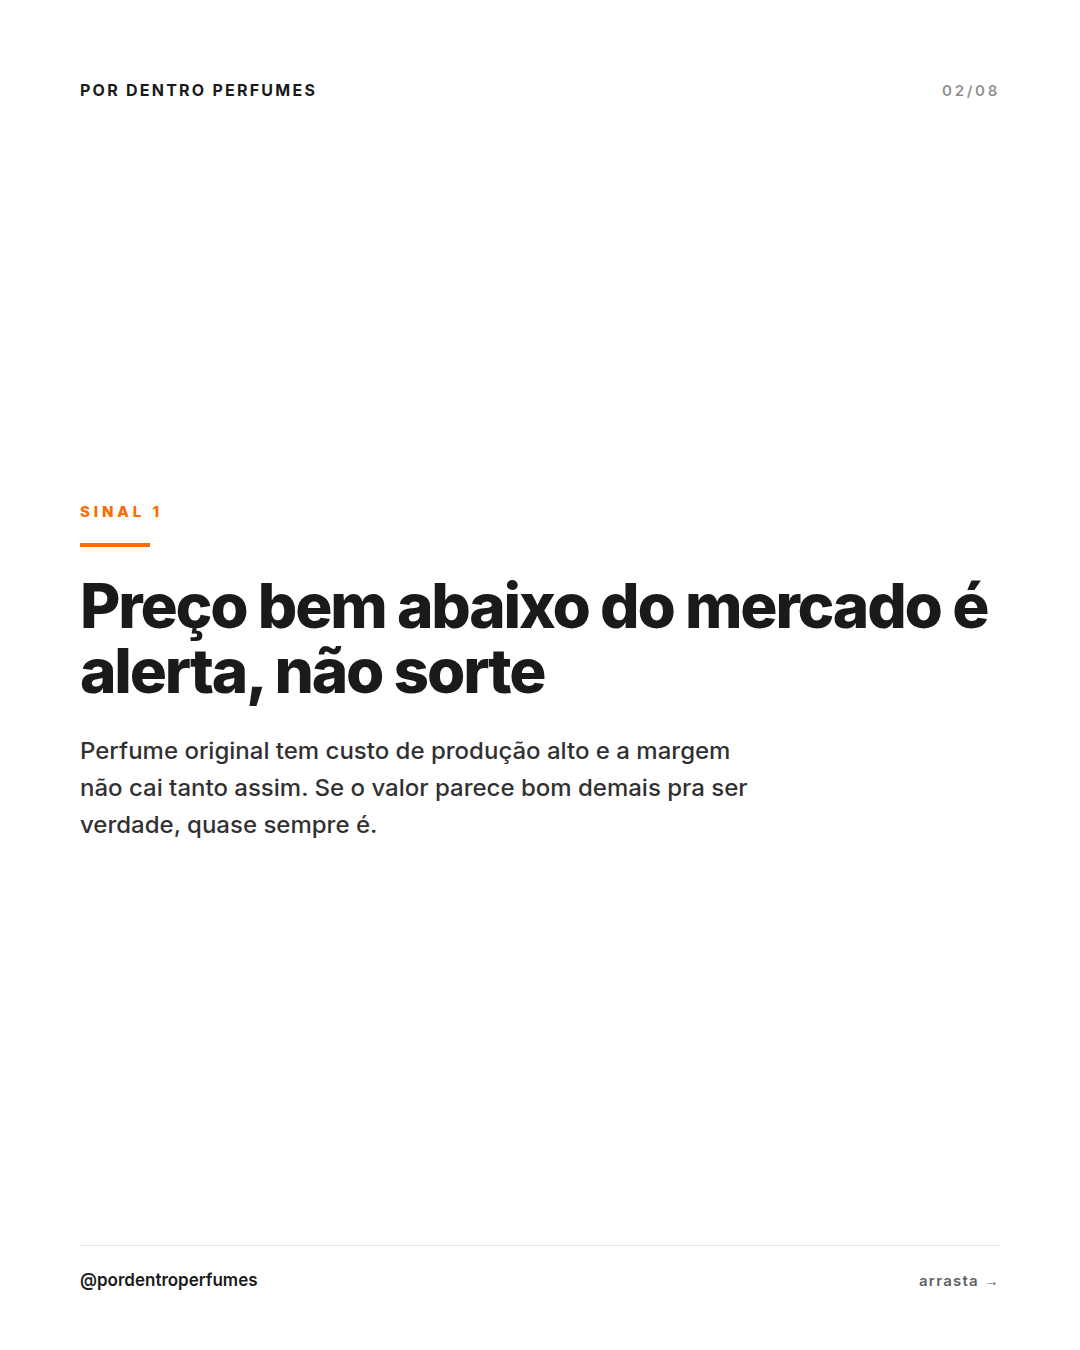
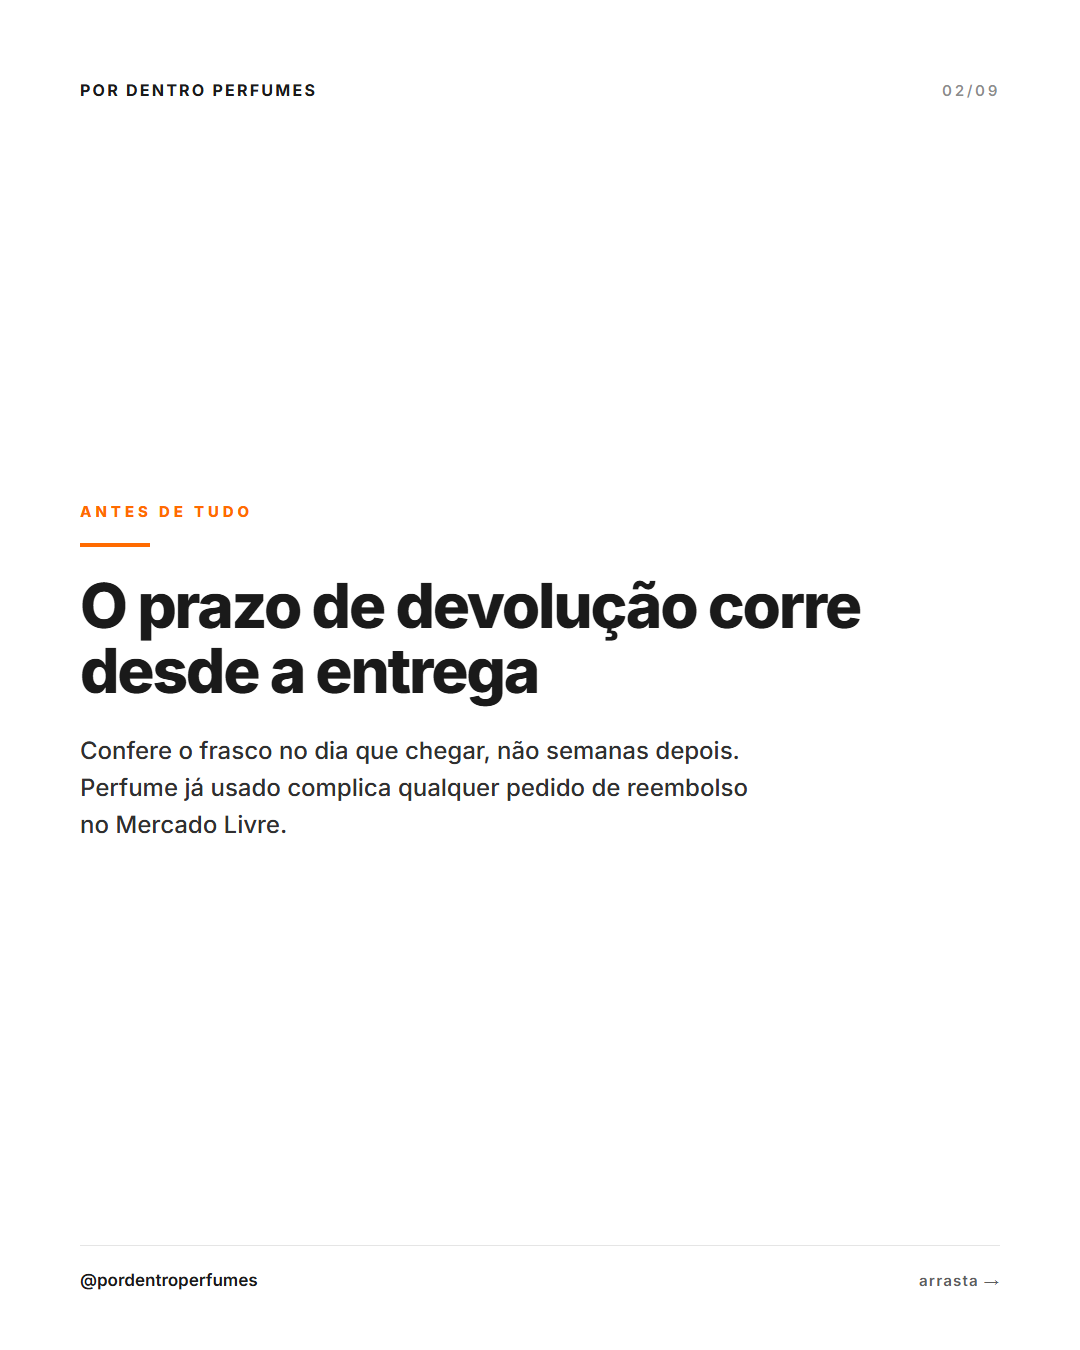
reescreve original-ou-falso: pericia na entrega
O angulo antigo (sinais no anuncio antes de comprar) repetia o carrossel
de erros no Mercado Livre, no ar desde 15/09: foto do anuncio e vendedor
sem historico eram dois slides inteiros de la, e o CTA era a mesma frase
trocando "confiavel" por "original".

Angulo novo: pericia com o frasco na mao depois que a encomenda chega,
dentro do prazo de devolucao. O carrossel no ar para na decisao de compra;
esse comeca onde ele termina. Nenhum conselho se repete.

Aproveita lacre e codigo de lote, que a revisao de 13/09 tirou do carrossel
de erros justamente pra liberar pra outro.

9 slides, capa preta (alterna com a capa branca do validade, que sai 17/09).
texto.md ja traz a tabela Trava de frescor exigida pela skill endurecida.
Legenda e hashtags refeitas: as duas usavam #perfumeoriginal.

diff --git a/marketing/conteudo/carrossel-perfume-original-ou-falso-2026-09-13/carrossel.html b/marketing/conteudo/carrossel-perfume-original-ou-falso-2026-09-13/carrossel.html
@@ -2,7 +2,7 @@
 <html lang="pt-BR">
 <head>
 <meta charset="UTF-8">
-<title>Carrossel — Perfume original ou falso</title>
+<title>Carrossel — Perfume original ou falso (perícia na entrega)</title>
 <link rel="stylesheet" href="../../../identidade/fonts/inter.css">
 <style>
   * { margin: 0; padding: 0; box-sizing: border-box; font-family: 'Inter', sans-serif; }
@@ -137,16 +137,16 @@
 </head>
 <body>
 
-<!-- SLIDE 1 — CAPA — preto -->
+<!-- SLIDE 1 — Chegou a encomenda — preto -->
 <div class="slide bg-black">
   <div class="header">
     <div class="wordmark">Por Dentro Perfumes</div>
-    <div class="counter">01/08</div>
+    <div class="counter">01/09</div>
   </div>
   <div class="content capa-content">
-    <div class="kicker">Compra segura</div>
-    <h1>Perfume original ou falso? Aprenda antes de comprar</h1>
-    <div class="subtitle">Sinais simples que separam o perfume de verdade da imitação barata.</div>
+    <div class="kicker">Chegou a encomenda</div>
+    <h1>Seu perfume chegou. Confere antes de usar</h1>
+    <div class="subtitle">Cinco minutos com o frasco na mão dizem se é original. E ainda dá tempo de devolver.</div>
   </div>
   <div class="footer">
     <div class="footer-handle">@pordentroperfumes</div>
@@ -154,17 +154,17 @@
   </div>
 </div>
 
-<!-- SLIDE 2 — Sinal 1 — branco -->
+<!-- SLIDE 2 — Antes de tudo — branco -->
 <div class="slide bg-white">
   <div class="header">
     <div class="wordmark">Por Dentro Perfumes</div>
-    <div class="counter">02/08</div>
+    <div class="counter">02/09</div>
   </div>
   <div class="content">
-    <div class="kicker">Sinal 1</div>
+    <div class="kicker">Antes de tudo</div>
     <div class="rule"></div>
-    <h2>Preço bem abaixo do mercado é alerta, não sorte</h2>
-    <div class="body-text">Perfume original tem custo de produção alto e a margem não cai tanto assim. Se o valor parece bom demais pra ser verdade, quase sempre é.</div>
+    <h2>O prazo de devolução corre desde a entrega</h2>
+    <div class="body-text">Confere o frasco no dia que chegar, não semanas depois. Perfume já usado complica qualquer pedido de reembolso no Mercado Livre.</div>
   </div>
   <div class="footer">
     <div class="footer-handle">@pordentroperfumes</div>
@@ -172,17 +172,17 @@
   </div>
 </div>
 
-<!-- SLIDE 3 — Sinal 2 — preto -->
+<!-- SLIDE 3 — Passo 1 — preto -->
 <div class="slide bg-black">
   <div class="header">
     <div class="wordmark">Por Dentro Perfumes</div>
-    <div class="counter">03/08</div>
+    <div class="counter">03/09</div>
   </div>
   <div class="content">
-    <div class="kicker">Sinal 2</div>
+    <div class="kicker">Passo 1</div>
     <div class="rule"></div>
-    <h2>Foto genérica esconde o que você vai receber</h2>
-    <div class="body-text">Anúncio só com imagem de catálogo não mostra o frasco real. Prefere quem fotografa o próprio produto, com caixa e lacre aparecendo de verdade.</div>
+    <h2>Celofane esticado, sem bolha nem dobra</h2>
+    <div class="body-text">Lacre de fábrica é justo e bem colado no papelão. Plástico frouxo, remendado ou com marca de calor é caixa que já foi aberta.</div>
   </div>
   <div class="footer">
     <div class="footer-handle">@pordentroperfumes</div>
@@ -190,17 +190,17 @@
   </div>
 </div>
 
-<!-- SLIDE 4 — Sinal 3 — branco -->
+<!-- SLIDE 4 — Passo 2 — branco -->
 <div class="slide bg-white">
   <div class="header">
     <div class="wordmark">Por Dentro Perfumes</div>
-    <div class="counter">04/08</div>
+    <div class="counter">04/09</div>
   </div>
   <div class="content">
-    <div class="kicker">Sinal 3</div>
+    <div class="kicker">Passo 2</div>
     <div class="rule"></div>
-    <h2>Vendedor sem histórico pesa contra ele</h2>
-    <div class="body-text">Reputação, tempo de loja e volume de vendas contam mais em perfume do que em quase qualquer outra categoria. Confere isso antes de fechar a compra.</div>
+    <h2>Código de barras impresso, nunca colado</h2>
+    <div class="body-text">Na caixa original o código sai junto com a arte. Etiqueta colada por cima costuma esconder outro produto. O lote precisa estar gravado na caixa e no frasco, e bater entre os dois.</div>
   </div>
   <div class="footer">
     <div class="footer-handle">@pordentroperfumes</div>
@@ -208,17 +208,17 @@
   </div>
 </div>
 
-<!-- SLIDE 5 — Sinal 4 — preto -->
+<!-- SLIDE 5 — Passo 3 — preto -->
 <div class="slide bg-black">
   <div class="header">
     <div class="wordmark">Por Dentro Perfumes</div>
-    <div class="counter">05/08</div>
+    <div class="counter">05/09</div>
   </div>
   <div class="content">
-    <div class="kicker">Sinal 4</div>
+    <div class="kicker">Passo 3</div>
     <div class="rule"></div>
-    <h2>Caixa e lacre também denunciam</h2>
-    <div class="body-text">Celofane bem esticado, sem dobra nem bolha. Código de barras impresso na caixa, nunca colado. Número de lote gravado, não só escrito por cima.</div>
+    <h2>Vidro sem emenda e mais pesado do que parece</h2>
+    <div class="body-text">Frasco original é peça única, sem linha de costura no vidro. Tampa e base levam material de verdade, não plástico oco que denuncia no primeiro toque.</div>
   </div>
   <div class="footer">
     <div class="footer-handle">@pordentroperfumes</div>
@@ -226,17 +226,17 @@
   </div>
 </div>
 
-<!-- SLIDE 6 — Sinal 5 — branco -->
+<!-- SLIDE 6 — Passo 4 — branco -->
 <div class="slide bg-white">
   <div class="header">
     <div class="wordmark">Por Dentro Perfumes</div>
-    <div class="counter">06/08</div>
+    <div class="counter">06/09</div>
   </div>
   <div class="content">
-    <div class="kicker">Sinal 5</div>
+    <div class="kicker">Passo 4</div>
     <div class="rule"></div>
-    <h2>Vidro sem costura, líquido quase transparente</h2>
-    <div class="body-text">Frasco original costuma ser uma peça só, sem linha de emenda visível. Marca boa usa pouco corante: o líquido fica claro, não colorido demais.</div>
+    <h2>Líquido quase transparente, sem nada no fundo</h2>
+    <div class="body-text">Marca boa usa pouco corante. Cor forte demais, líquido turvo ou partícula parada no fundo do vidro não é característica de perfume caro.</div>
   </div>
   <div class="footer">
     <div class="footer-handle">@pordentroperfumes</div>
@@ -244,17 +244,17 @@
   </div>
 </div>
 
-<!-- SLIDE 7 — Sinal 6 — preto -->
+<!-- SLIDE 7 — Passo 5 — preto -->
 <div class="slide bg-black">
   <div class="header">
     <div class="wordmark">Por Dentro Perfumes</div>
-    <div class="counter">07/08</div>
+    <div class="counter">07/09</div>
   </div>
   <div class="content">
-    <div class="kicker">Sinal 6</div>
+    <div class="kicker">Passo 5</div>
     <div class="rule"></div>
-    <h2>O cheiro muda com o tempo, o falso não</h2>
-    <div class="body-text">Perfume de verdade evolui na pele ao longo das horas. Se o cheiro fica sempre igual do início ao fim e some rápido, desconfia.</div>
+    <h2>O original troca de cheiro em uma hora</h2>
+    <div class="body-text">Perfume de verdade abre de um jeito e assenta em outro. Se o cheiro é igual do primeiro spray até sumir, e some rápido, é imitação. Testa na pele, nunca no papel.</div>
   </div>
   <div class="footer">
     <div class="footer-handle">@pordentroperfumes</div>
@@ -262,30 +262,41 @@
   </div>
 </div>
 
-<!-- SLIDE 8 — CTA FINAL — laranja -->
+<!-- SLIDE 8 — Deu ruim — branco -->
+<div class="slide bg-white">
+  <div class="header">
+    <div class="wordmark">Por Dentro Perfumes</div>
+    <div class="counter">08/09</div>
+  </div>
+  <div class="content">
+    <div class="kicker">Deu ruim</div>
+    <div class="rule"></div>
+    <h2>Abre a reclamação dentro do Mercado Livre</h2>
+    <div class="body-text">Acerto por fora com o vendedor te deixa sem prova nenhuma. Pelo canal oficial, com foto da caixa e do frasco, o dinheiro volta.</div>
+  </div>
+  <div class="footer">
+    <div class="footer-handle">@pordentroperfumes</div>
+    <div class="footer-drag">arrasta →</div>
+  </div>
+</div>
+
+<!-- SLIDE 9 — CTA FINAL — laranja -->
 <div class="slide bg-orange">
   <div class="header">
     <div class="wordmark">Por Dentro Perfumes</div>
-    <div class="counter">08/08</div>
+    <div class="counter">09/09</div>
   </div>
   <div class="content cta-content">
-    <h1>Agora você sabe reconhecer perfume original antes de comprar</h1>
+    <h1>Perfume falso se descobre em cinco minutos, se você souber olhar</h1>
     <div class="subtitle">A Por Dentro Perfumes busca as melhores ofertas de perfume no Mercado Livre todo dia e manda pro grupo só o que vale.</div>
     <div class="cta-btn">Entra no grupo</div>
     <div class="cta-hint">Link na bio ↑</div>
   </div>
-  <div class="footer" style="justify-content: center; border-top: none;">
+  <div class="footer">
     <div class="footer-handle">@pordentroperfumes</div>
+    <div class="footer-drag"></div>
   </div>
 </div>
 
-<script>
-  const only = new URLSearchParams(location.search).get('slide');
-  if (only) {
-    document.querySelectorAll('.slide').forEach((el, i) => {
-      if (String(i + 1) !== only) el.style.display = 'none';
-    });
-  }
-</script>
 </body>
 </html>

diff --git a/marketing/conteudo/carrossel-perfume-original-ou-falso-2026-09-13/texto.md b/marketing/conteudo/carrossel-perfume-original-ou-falso-2026-09-13/texto.md
@@ -1,64 +1,70 @@
-# Carrossel — Perfume original ou falso, como saber antes de comprar
+# Carrossel — Perfume original ou falso: perícia na entrega
 
-> Gerado pela rotina automática `/carrossel-diario` em 2026-09-13.
-> Tipo: carrossel texto puro (8 slides). Capa em fundo escuro (preto) — o último
-> carrossel agendado no feed, na ordem de publicação (erros ao comprar, 15/09 20h),
-> tem capa clara (branco), então essa alterna pra escura, seguindo a regra de
-> sequência de capas do feed.
-> Ângulo: custo-benefício + segurança na compra + Mercado Livre. Sem slide de
-> "achado do grupo com preço real" — rotina automática não tem acesso a oferta ao vivo.
-> Tema conferido contra `_temas-cobertos.md`: "original x falsificado" está listado
-> explicitamente como tema válido ainda não coberto na "Regra de frescor". É distinto
-> de "erros comuns ao comprar" (2026-09-07, que cobre foto do anúncio, vendedor sem
-> histórico, avaliações e contratipo x original como UM item entre vários) porque aqui
-> o carrossel inteiro é dedicado aos sinais físicos e práticos de autenticidade do
-> produto em si (embalagem, lacre, frasco, cheiro).
+> Reescrito em 2026-09-16. A versão anterior (gerada em 13/09) foi descartada por
+> repetir o carrossel "erros ao comprar perfume no Mercado Livre", no ar desde 15/09:
+> foto do anúncio, vendedor sem histórico e um CTA quase idêntico.
+> Tipo: carrossel texto puro (9 slides). Capa preta, alternando com a capa branca do
+> carrossel de validade, que sai antes (17/09).
+
+## Trava de frescor (Passo 0)
+
+| Candidato | Linha coberta mais próxima | Veredito |
+|---|---|---|
+| Perícia no frasco depois que a encomenda chega | erros-comprar-perfume-mercado-livre (07/09, no ar 15/09) | APROVADO: aquele carrossel para na decisão de compra (anúncio, vendedor, avaliações). Esse começa onde ele termina, com o produto na mão. Nenhum conselho se repete, e usa lacre e código de lote, que a revisão de 13/09 tirou de lá de propósito |
+| Sinais de falsificação no anúncio (versão antiga) | erros-comprar-perfume-mercado-livre (07/09, no ar 15/09) | REPROVADO: foto genérica e vendedor sem histórico são dois slides inteiros do carrossel no ar, e o CTA era a mesma frase trocando "confiável" por "original" |
+| Como conservar perfume pra não estragar | carrossel-perfume-tem-validade (16/09, agendado 17/09) | REPROVADO: calor, luz e banheiro já são dois slides do carrossel de validade |
 
 ## Slide 1 — CAPA (preto)
 
-**Kicker:** Compra segura
-**H1:** Perfume original ou falso? Aprenda antes de comprar
-**Subtítulo:** Sinais simples que separam o perfume de verdade da imitação barata.
+**Kicker:** Chegou a encomenda
+**H1:** Seu perfume chegou. Confere antes de usar
+**Subtítulo:** Cinco minutos com o frasco na mão dizem se é original. E ainda dá tempo de devolver.
 
-## Slide 2 — Sinal 1 (branco)
+## Slide 2 — Antes de tudo (branco)
 
-**Kicker:** Sinal 1
-**H2:** Preço bem abaixo do mercado é alerta, não sorte
-**Corpo:** Perfume original tem custo de produção alto e a margem não cai tanto assim. Se o valor parece bom demais pra ser verdade, quase sempre é.
+**Kicker:** Antes de tudo
+**H2:** O prazo de devolução corre desde a entrega
+**Corpo:** Confere o frasco no dia que chegar, não semanas depois. Perfume já usado complica qualquer pedido de reembolso no Mercado Livre.
 
-## Slide 3 — Sinal 2 (preto)
+## Slide 3 — Passo 1 (preto)
 
-**Kicker:** Sinal 2
-**H2:** Foto genérica esconde o que você vai receber
-**Corpo:** Anúncio só com imagem de catálogo não mostra o frasco real. Prefere quem fotografa o próprio produto, com caixa e lacre aparecendo de verdade.
+**Kicker:** Passo 1
+**H2:** Celofane esticado, sem bolha nem dobra
+**Corpo:** Lacre de fábrica é justo e bem colado no papelão. Plástico frouxo, remendado ou com marca de calor é caixa que já foi aberta.
 
-## Slide 4 — Sinal 3 (branco)
+## Slide 4 — Passo 2 (branco)
 
-**Kicker:** Sinal 3
-**H2:** Vendedor sem histórico pesa contra ele
-**Corpo:** Reputação, tempo de loja e volume de vendas contam mais em perfume do que em quase qualquer outra categoria. Confere isso antes de fechar a compra.
+**Kicker:** Passo 2
+**H2:** Código de barras impresso, nunca colado
+**Corpo:** Na caixa original o código sai junto com a arte. Etiqueta colada por cima costuma esconder outro produto. O lote precisa estar gravado na caixa e no frasco, e bater entre os dois.
 
-## Slide 5 — Sinal 4 (preto)
+## Slide 5 — Passo 3 (preto)
 
-**Kicker:** Sinal 4
-**H2:** Caixa e lacre também denunciam
-**Corpo:** Celofane bem esticado, sem dobra nem bolha. Código de barras impresso na caixa, nunca colado. Número de lote gravado, não só escrito por cima.
+**Kicker:** Passo 3
+**H2:** Vidro sem emenda e mais pesado do que parece
+**Corpo:** Frasco original é peça única, sem linha de costura no vidro. Tampa e base levam material de verdade, não plástico oco que denuncia no primeiro toque.
 
-## Slide 6 — Sinal 5 (branco)
+## Slide 6 — Passo 4 (branco)
 
-**Kicker:** Sinal 5
-**H2:** Vidro sem costura, líquido quase transparente
-**Corpo:** Frasco original costuma ser uma peça só, sem linha de emenda visível. Marca boa usa pouco corante: o líquido fica claro, não colorido demais.
+**Kicker:** Passo 4
+**H2:** Líquido quase transparente, sem nada no fundo
+**Corpo:** Marca boa usa pouco corante. Cor forte demais, líquido turvo ou partícula parada no fundo do vidro não é característica de perfume caro.
 
-## Slide 7 — Sinal 6 (preto)
+## Slide 7 — Passo 5 (preto)
 
-**Kicker:** Sinal 6
-**H2:** O cheiro muda com o tempo, o falso não
-**Corpo:** Perfume de verdade evolui na pele ao longo das horas. Se o cheiro fica sempre igual do início ao fim e some rápido, desconfia.
+**Kicker:** Passo 5
+**H2:** O original troca de cheiro em uma hora
+**Corpo:** Perfume de verdade abre de um jeito e assenta em outro. Se o cheiro é igual do primeiro spray até sumir, e some rápido, é imitação. Testa na pele, nunca no papel.
 
-## Slide 8 — CTA FINAL (laranja)
+## Slide 8 — Deu ruim (branco)
 
-**H1:** Agora você sabe reconhecer perfume original antes de comprar
+**Kicker:** Deu ruim
+**H2:** Abre a reclamação dentro do Mercado Livre
+**Corpo:** Acerto por fora com o vendedor te deixa sem prova nenhuma. Pelo canal oficial, com foto da caixa e do frasco, o dinheiro volta.
+
+## Slide 9 — CTA FINAL (laranja)
+
+**H1:** Perfume falso se descobre em cinco minutos, se você souber olhar
 **Subtítulo:** A Por Dentro Perfumes busca as melhores ofertas de perfume no Mercado Livre todo dia e manda pro grupo só o que vale.
 **Botão:** Entra no grupo
 **Abaixo do botão:** Link na bio ↑

diff --git a/marketing/conteudo/_temas-cobertos.md b/marketing/conteudo/_temas-cobertos.md
@@ -25,7 +25,7 @@
 - [agendado 17/09 13h] 2026-09-16 — carrossel-perfume-tem-validade — Perfume tem validade e vence sim (frasco lacrado dura 3 a 5 anos, cheiro metálico/azedo é sinal de que virou, cítrico vence mais rápido que amadeirado/âmbar, calor/luz/umidade adiantam o fim, banheiro é lugar ruim pra guardar, checar lacre e lote no Mercado Livre, lacrado dura mais que aberto e decant ajuda a testar) — ângulo custo-benefício + conservação + Mercado Livre, gerado pela rotina automática /carrossel-diario
 - [na fila] 2026-09-15 — carrossel-perfume-unissex-vale-a-pena — Perfume unissex vale a pena (notas neutras não são sem graça, um frasco rende pra duas pessoas, serve do trabalho ao fim de semana, a nota importa mais que o rótulo do anúncio, menos frasco parado no armário, ideal pra quem viaja com pouca bagagem) — ângulo custo-benefício + Mercado Livre, gerado pela rotina automática /carrossel-diario
 - [descartado] 2026-09-14 — carrossel-perfume-durar-mais-na-pele (pasta apagada em 16/09) — Como fazer o perfume durar mais na pele (hidratar antes de borrifar, pontos de calor do corpo, não esfregar o pulso, EDP x EDT no anúncio, notas amadeiradas x cítricas, guardar longe de calor e luz) — ângulo custo-benefício (perfume que fixa mais rende mais aplicações) + Mercado Livre, gerado pela rotina automática /carrossel-diario — DESCARTADO: duplicata de formas-de-passar-perfume (08/07, no ar), que já cobria hidratar a pele, pontos de calor e não esfregar o pulso
-- [na fila] 2026-09-13 — carrossel-perfume-original-ou-falso — Como saber se o perfume é original ou falso antes de comprar (preço bem abaixo do mercado, foto genérica no anúncio, vendedor sem histórico, caixa/lacre/código de barras, frasco e cor do líquido, evolução do cheiro na pele) — ângulo custo-benefício + segurança na compra + Mercado Livre, gerado pela rotina automática /carrossel-diario
+- [na fila] 2026-09-13 — carrossel-perfume-original-ou-falso — Perícia no perfume depois que a encomenda chega (prazo de devolução corre desde a entrega, celofane do lacre, código de barras impresso x colado e lote batendo entre caixa e frasco, vidro sem emenda e peso, líquido sem corante nem resíduo, evolução do cheiro na pele, reclamação pelo canal oficial) — ângulo pós-compra com o produto na mão. REESCRITO em 16/09: a versão original olhava o anúncio antes de comprar e repetia erros-comprar-perfume-mercado-livre (foto do anúncio, vendedor sem histórico, CTA quase idêntico)
 - [descartado] 2026-09-12 — carrossel-tamanho-frasco-perfume (pasta apagada em 16/09) — Tamanho de frasco ideal, 30ml, 50ml ou 100ml (preço por ml importa mais que preço total, onde cada tamanho compensa, perfume não usado também vence, como comparar anúncio no Mercado Livre pelo preço por ml) — ângulo custo-benefício + Mercado Livre, gerado pela rotina automática /carrossel-diario — DESCARTADO: decisão do Bruno em 16/09, não vai ao ar
 - [na fila] 2026-09-11 — carrossel-perfume-nichado-x-grife — Nicho ou grife, qual vale seu dinheiro (o que muda entre as duas categorias, onde o nicho ganha, onde o grife ganha, cuidado com nicho barato demais no anúncio, contratipo de nicho também existe, como decidir) — ângulo custo-benefício + Mercado Livre, gerado pela rotina automática /carrossel-diario
 - [no ar 11/09] 2026-09-10 — carrossel-contratipo-vale-a-pena — Contratipo vale a pena ou é cilada (o que é contratipo, onde ganha em custo, onde perde em fixação/projeção, cuidado com anúncio "99% igual", como escolher pela avaliação, quando vale e quando não vale a pena) — ângulo custo-benefício + Mercado Livre, gerado pela rotina automática /carrossel-diario

diff --git a/marketing/conteudo/carrossel-perfume-original-ou-falso-2026-09-13/legenda.md b/marketing/conteudo/carrossel-perfume-original-ou-falso-2026-09-13/legenda.md
@@ -1,9 +1,9 @@
-Perfume original ou falso? Tem sinal que denuncia antes mesmo de abrir a caixa 🔍
+Chegou a encomenda? Não borrifa ainda. 🔍
 
-Preço bom demais, foto genérica, vendedor sem histórico. A gente separou os detalhes que mostram se o perfume é de verdade antes de você fechar a compra.
+Cinco minutos com o frasco na mão dizem se o perfume é original: lacre, código de lote, peso do vidro, cor do líquido e como o cheiro evolui na pele. Se alguma coisa estiver errada, o prazo de devolução ainda está correndo.
 
-Arrasta pro lado e aprende a reconhecer 👉
+Salva pra conferir na próxima entrega 📦
 
 A Por Dentro Perfumes busca as melhores ofertas de perfume no Mercado Livre todo santo dia. Você não procura nada, só aproveita. Entra no grupo (link na bio).
 
-#perfume #perfumes #perfumaria #dicasdeperfume #mercadolivre #achadosdomercadolivre #perfumeimportado #cheirobom #perfumesimportados #beleza #pordentroperfumes #perfumeoriginal
+#perfume #perfumes #perfumaria #mercadolivre #achadosdomercadolivre #perfumeimportado #perfumesimportados #cheirobom #pordentroperfumes #comprasegura #perfumefalsificado #identificarperfumeoriginal
